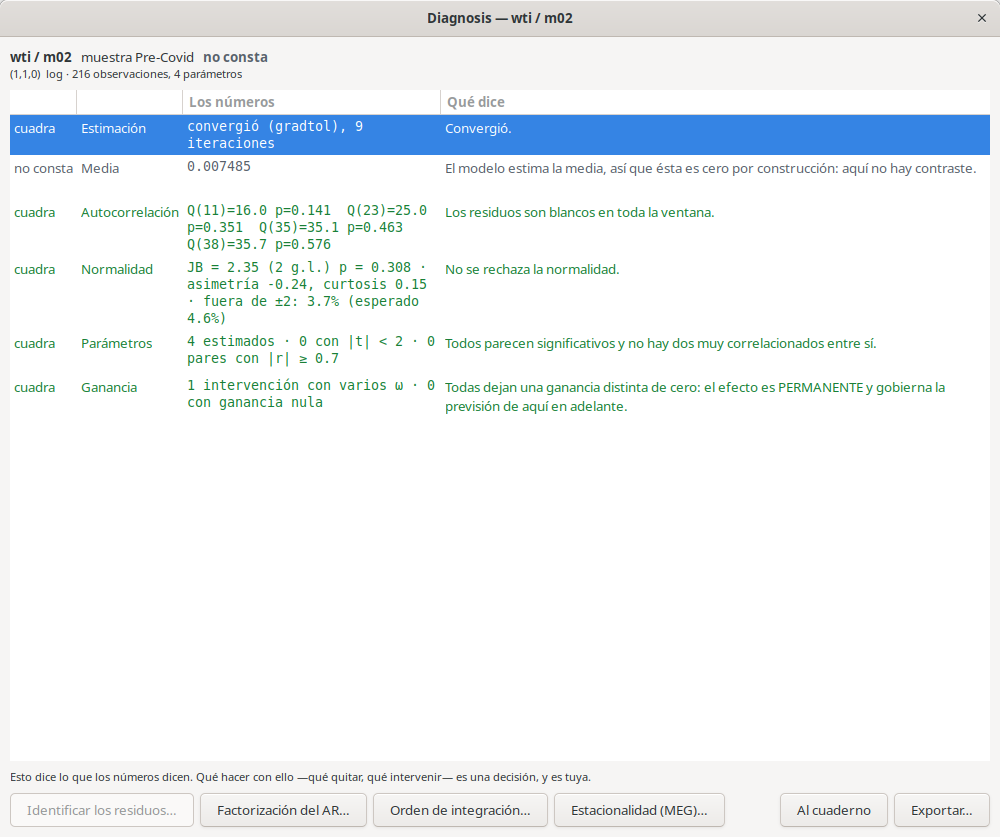
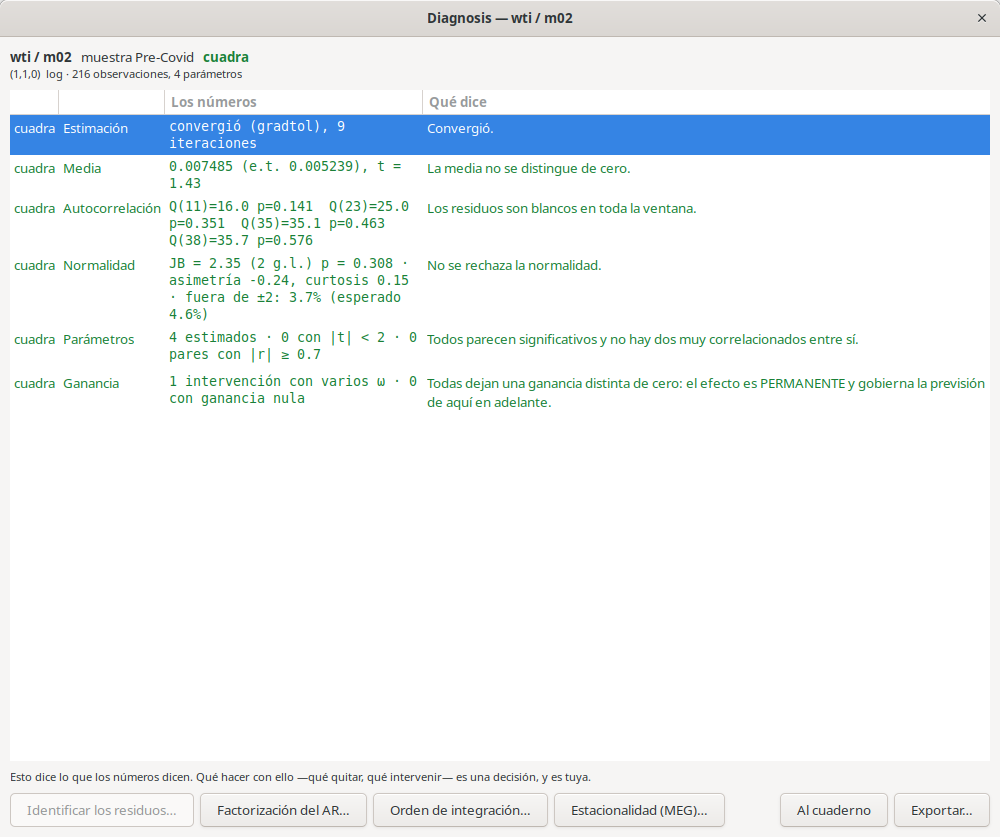
Manual y vídeo IPC–WTI con la media del hijo (μ libre sólo con deriva) (#83)
Las capturas de hoy, con a6965fa: el IPC (d = 1, t = 3.0) deriva m01 con μ
y el petróleo (t = 0.6) sin ella. Cambian los números de ipc m01 (13
parámetros, φ = 0.40, raíz 2.48, Shin-Fuller 37.5, simplificación 359, sólo
f = 3 estocástica) y todos los de drtran (LR 86.89, ganancia 0.037, retardo
medio 1 mes, previsión de enero 97.14 ± 0.25). En wti la fila Media
contrasta de verdad (BUG-0002). El manual explica por qué el IPC lleva media
y el petróleo no.

La escena 05-drtran espera 60 s al baseline: con 30 s, el Estimar de
después a veces seguía apagado.

Changed region(s): [[0.0, 0.0621, 0.992, 0.497], [0.434, 0.0932, 0.961, 0.2174], [0.0, 0.1243, 0.124, 0.2174]]

diff --git a/docs/manual/MANUAL.md b/docs/manual/MANUAL.md
@@ -379,10 +379,18 @@ Se abre el editor con el `.inp` de m01:
 
 ![El editor de m01](img/editor-m01.png)
 
-Es el **modelo especificado**: logaritmos, d = 1, un AR(1) y los armónicos
-deterministas. Los valores son semillas. Pulsa **Guardar y estimar**: el motor
-**fue** lo estima por máxima verosimilitud exacta. En la pestaña **Output**
-está la salida:
+Es el **modelo especificado**: logaritmos, d = 1, un AR(1), los armónicos
+deterministas y la media μ. Los valores son semillas.
+
+> **¿Por qué lleva media?** Con una diferencia (d + D = 1), μ es la **deriva**:
+> el crecimiento medio de la serie. ATSW la deja libre sólo si la serie
+> transformada y diferenciada tiene una media significativa (\|t\| ≥ 2). El
+> IPC sube de media cada mes (t = 3.0), así que m01 lleva μ; el petróleo no
+> tiene deriva (t = 0.6), y su modelo no la lleva. Sin diferencias, μ es el
+> nivel y va siempre; con dos, no va nunca.
+
+Pulsa **Guardar y estimar**: el motor **fue** lo estima por máxima
+verosimilitud exacta. En la pestaña **Output** está la salida:
 
 ![La salida de la estimación](img/editor-m01-output.png)
 
@@ -439,10 +447,10 @@ Cada fila es una pregunta, con **los números** y **qué dicen**:
 | Fila | La pregunta | Aquí |
 |---|---|---|
 | **Estimación** | ¿Convergió? | Sí. |
-| **Media** | ¿Los residuos tienen media cero? | El modelo estima la media, así que es cero por construcción. |
+| **Media** | ¿Los residuos tienen media cero? | m01 estima la media (μ, la deriva del IPC), así que es cero por construcción y no hay contraste. En un modelo sin μ, como los de wti, la fila contrasta de verdad que la media de los residuos sea cero. |
 | **Autocorrelación** | ¿Los residuos son ruido blanco? | Sí: ninguna Q de Ljung-Box rechaza. |
-| **Normalidad** | ¿Son normales? | Sí (Jarque-Bera, p = 0.82). |
-| **Parámetros** | ¿Son significativos? | **4 no lo parecen** (\|t\| < 2), empezando por un armónico (cos 1). |
+| **Normalidad** | ¿Son normales? | Sí (Jarque-Bera, p = 0.68). |
+| **Parámetros** | ¿Son significativos? | De los 13, **3 no lo parecen** (\|t\| < 2), empezando por un armónico (sin 4). |
 | **Ganancia** | ¿El efecto de una intervención es permanente? | No aplica: m01 no tiene intervenciones. |
 
 **Factorización del AR…** (un botón de la diagnosis, y también en
@@ -456,9 +464,9 @@ del AR.
 
 ![La factorización del AR de m01](img/ipc-m01-factorizacion.png)
 
-En m01, un AR(1), sale una sola raíz real, 1.83: no hay nada escondido. Es una
-herramienta de identificación, no un contraste: si un par lo parece, se
-contrasta aparte. Para eso está **Derivar el modelo factorizado…**: escribe un
+En m01, un AR(1) con φ̂ = 0.40, sale una sola raíz real, 2.48: no hay nada
+escondido. Es una herramienta de identificación, no un contraste: si un par
+lo parece, se contrasta aparte. Para eso está **Derivar el modelo factorizado…**: escribe un
 hijo con cada factor AR partido así, libre y sembrado con estos números, para
 estimarlo y fijar o quitar un factor cada vez. En m01 está apagado, porque un
 AR(1) ya no se puede partir más.
@@ -476,7 +484,7 @@ la diagnosis, desde **Diagnosticar ▸** (en el botón derecho y en el menú
 ![El orden de integración de m01](img/ipc-m01-integracion.png)
 
 - **Shin-Fuller**: ¿le falta una diferencia al AR, es decir, tiene una raíz en
-  1 − 4/n? Φ = 26.9 frente a un crítico de 1.76: no; con d = 1 basta.
+  1 − 4/n? Φ = 37.5 frente a un crítico de 1.76: no; con d = 1 basta.
 - **Sobrediferenciación**: se impone una diferencia más (d = 2) con un testigo
   MA(1), y se pregunta si el testigo se apila en θ = 1, o sea, si la diferencia
   extra sobra. Aquí θ̂ = 0.971 y LR = 4.22 frente a 1.94: por sí solo apuntaría
@@ -502,7 +510,7 @@ La ventana de la **estacionalidad** lleva el resto:
 
 ![La estacionalidad de m01](img/ipc-m01-estacionalidad.png)
 
-- **Simplificación estacional**: ¿sobran los 11 armónicos a la vez? LR = 346
+- **Simplificación estacional**: ¿sobran los 11 armónicos a la vez? LR = 359
   con 11 grados de libertad, muy por encima del crítico (19.7): no sobran.
 - El **DCD estacional** (¿sobra la diferencia estacional?) mira un MA anual en
   su frontera; m01 no lo tiene, y la ventana dice que no aplica.
@@ -514,10 +522,11 @@ con D = 0 y armónicos. En cada frecuencia f construye el modelo estocástico:
 quita el cos/sin de f (o el alter en f = 6), pone la raíz unitaria estacional de
 esa frecuencia y un **testigo** MA libre. Luego mira si el testigo se apila en
 la frontera, donde cancela la raíz: si se apila, la estacionalidad en f es
-determinista; si queda invertible, es estocástica. En m01 salen estocásticas
-f = 5 (LR = 2.36) y f = 3 (LR = 2.21), frente a un crítico de 2.07, y las demás
-deterministas. Es por poco: con media y armónicos en el modelo, el crítico real
-en muestra finita es mayor, y la ventana lo avisa. Los críticos salen de
+determinista; si queda invertible, es estocástica. En m01 sale estocástica
+sólo f = 3 (LR = 2.31, frente a un crítico de 2.07), y las demás
+deterministas; la que más se acerca es f = 5 (LR = 1.77). Es por poco: con
+media y armónicos en el modelo, el crítico real en muestra finita es mayor, y
+la ventana lo avisa. Los críticos salen de
 simulación.
 
 **Reformular como estocástica…** deriva el modelo estocástico de la frecuencia
@@ -551,7 +560,7 @@ modelo está estimado.
 
 ### Los parámetros que no parecen significativos
 
-Cuatro armónicos tienen \|t\| < 2. La tentación es quitarlos. **No todavía**:
+Tres armónicos tienen \|t\| < 2. La tentación es quitarlos. **No todavía**:
 
 - Un armónico con t baja puede ser un indicio de que esa frecuencia estacional
   es **estocástica**, no determinista. El contraste que lo decide (el **MEG**)
@@ -596,6 +605,9 @@ Elige **AR(1)**, deriva m01, estímalo y abre su diagnosis:
 Todo cuadra **salvo la normalidad**: Jarque-Bera rechaza (p = 0.035). El propio
 programa sugiere la causa: con curtosis 0.4, *suele ser cosa de unos pocos
 atípicos, no de toda la muestra*.
+
+La fila **Media**, aquí sí, contrasta: m01 no lleva μ (el petróleo no tiene
+deriva), y la media de los residuos no se distingue de cero (t = 0.65).
 
 ### Los anómalos
 
@@ -645,10 +657,10 @@ Deja **en el editor** y pulsa **Derivar modelo con estas intervenciones**. Nace
 
 ![Diagnosis de wti m02](img/wti-m02-diagnosis.png)
 
-Ahora todo cuadra, también la normalidad, y los cuatro parámetros parecen
-significativos. La fila **Ganancia** ya tiene qué preguntar: los tres escalones
-dejan una ganancia distinta de cero, un efecto **permanente** en el nivel del
-petróleo. **Diagnosticar ▸ Ganancia…** da el contraste.
+Ahora todo cuadra, también la normalidad y la media de los residuos
+(t = 1.43), y los cuatro parámetros parecen significativos. La fila
+**Ganancia** ya tiene qué preguntar: los tres escalones dejan una ganancia
+distinta de cero, un efecto **permanente** en el nivel del petróleo. **Diagnosticar ▸ Ganancia…** da el contraste.
 
 ---
 
@@ -820,15 +832,19 @@ preblanqueado, en los retardos **negativos**.
 ![Exogeneidad](img/drtran-diagnosis.png)
 
 Si fallara, el sistema sería simultáneo y habría que ir a VARMA. Aquí
-p = 0.87: **wti es exógena**.
+p = 0.81: **wti es exógena**.
 
 **2 · Adecuación**: la misma Q en los retardos **k ≥ 0**. Si falla, la *forma*
 (b, r, s) está mal.
 
 ![Adecuación](img/drtran-adecuacion.png)
 
-p = 0.22: **la forma es adecuada**. Abajo, el contraste de Hosking dice que los
-residuos de las dos ecuaciones son ruido blanco conjuntamente.
+p = 0.18: **la forma es adecuada**. Abajo, el contraste de Hosking dice que los
+residuos de las dos ecuaciones son ruido blanco conjuntamente (p = 0.19). La
+misma línea avisa de que el Jarque-Bera multivariante rechaza la normalidad
+(p = 0.022): los residuos del IPC tienen algo de curtosis (1.1). No invalida
+la estimación, pero las bandas de la previsión, que suponen normalidad, hay que
+leerlas con esa reserva.
 
 **3 · Ajuste**: ¿merece la pena la transferencia? Converger y merecer la pena
 son afirmaciones distintas. Hay que compararla con el **modelo diagonal**, las
@@ -843,11 +859,11 @@ dos series sin relación entre ellas. Se calcula desde la flecha de
 
 ![Ajuste frente al diagonal](img/drtran-ajuste.png)
 
-- **LR = 81.59** con 2 parámetros de transferencia, frente a un valor crítico de
+- **LR = 86.89** con 2 parámetros de transferencia, frente a un valor crítico de
   5.3 al 5 %: **la transferencia es significativa**.
-- La varianza de los residuos del IPC baja un **32.7 %**: una parte importante
+- La varianza de los residuos del IPC baja un **34.3 %**: una parte importante
   de su variabilidad se explica con el petróleo.
-- En wti no cambia nada (−0.8 %), como debe ser: wti es la entrada, no
+- En wti apenas cambia (−1.9 %), como debe ser: wti es la entrada, no
   responde a nadie.
 
 **4 · Residuos**: la ACF de los residuos de cada ecuación, con la Q de
@@ -865,11 +881,12 @@ ecuación a otra (ipc, wti).
 
 | Parámetro | Qué es | Valor |
 |---|---|---|
-| `ω1[0] ← wti` | ω₀, el efecto del mismo mes | 0.019 (d.t. 0.002) |
-| `δ1[1] ← wti` | δ₁, cuánto se arrastra cada mes | 0.577 (d.t. 0.077) |
-| `φ_ipc` | el AR(1) del ruido del IPC | 0.469 |
+| `ω1[0] ← wti` | ω₀, el efecto del mismo mes | 0.018 (d.t. 0.002) |
+| `δ1[1] ← wti` | δ₁, cuánto se arrastra cada mes | 0.502 (d.t. 0.068) |
+| `φ_ipc` | el AR(1) del ruido del IPC | 0.287 |
 | `ω_D1_ipc`… | los armónicos del IPC | |
-| `φ_wti` | el AR(1) del petróleo (en la ecuación de wti) | 0.215 |
+| `μ_ipc` | la deriva del IPC: su crecimiento medio mensual que no viene del petróleo | 0.0013 (d.t. 0.0002) |
+| `φ_wti` | el AR(1) del petróleo (en la ecuación de wti) | 0.223 |
 | `ω_D1_wti`… | los tres escalones de 2008 del petróleo (ídem) | |
 
 **7 · Transferencias**: la **ganancia** y el **retardo medio** de cada enlace,
@@ -891,26 +908,27 @@ El modelo, en dos ecuaciones:
 
 ```
 ln IPC_t = ω₀ / (1 − δ₁ B) · ln WTI_t  +  D_t  +  N_t
-(1 − φ B) ∇ N_t = a_t
+(1 − φ B) (∇ N_t − μ) = a_t
 ```
 
 La primera es la **transferencia en niveles**, con los deterministas (D_t, los
 armónicos) y el **ruido** N_t. La segunda es el modelo del ruido: un AR(1) en
-diferencias.
+diferencias, alrededor de la deriva μ = 0.0013 (un 0.13 % al mes, cerca de un
+1.5 % al año, de inflación que no viene del petróleo).
 
 Como las dos series están en logaritmos, los coeficientes son **elasticidades**:
 
-- **Efecto del mismo mes**: ω₀ = 0.019. Si el petróleo sube un 10 %, el IPC
-  sube un 0.19 % ese mismo mes.
+- **Efecto del mismo mes**: ω₀ = 0.018. Si el petróleo sube un 10 %, el IPC
+  sube un 0.18 % ese mismo mes.
 - **Ganancia** (el efecto a largo plazo, cuando la subida del petróleo es
-  permanente): ω₀ / (1 − δ₁) = 0.019 / (1 − 0.577) ≈ **0.045** (d.t. 0.008,
+  permanente): ω₀ / (1 − δ₁) = 0.018 / (1 − 0.502) ≈ **0.037** (d.t. 0.005,
   en **7 · Transferencias**). Una subida permanente del 10 % en el petróleo
-  acaba subiendo el IPC un **0.45 %**.
-- **Retardo medio**: δ₁ / (1 − δ₁) ≈ **1.4 meses** (1.36, d.t. 0.43). La mayor
+  acaba subiendo el IPC un **0.37 %**.
+- **Retardo medio**: δ₁ / (1 − δ₁) ≈ **1 mes** (1.01, d.t. 0.28). La mayor
   parte del efecto llega en el primer trimestre.
 
 > Una advertencia de la escuela: si δ₁ se acercara a 1 (más de 0.95), la
-> ganancia y el retardo medio no serían fiables. Aquí δ₁ = 0.58, lejos de eso.
+> ganancia y el retardo medio no serían fiables. Aquí δ₁ = 0.50, lejos de eso.
 
 ---
 
@@ -923,7 +941,7 @@ Pestaña **7 · Previsión** (o el botón **Prever** de la barra). Marca
 
 Desde 12/2019, el nivel del IPC y su variación anual, cada uno con su
 desviación típica. El IPC de enero de 2020 fue 97.14; el modelo prevé
-97.03 ± 0.26.
+97.14 ± 0.25.
 
 Dos cosas que hay que tener claras:
 
